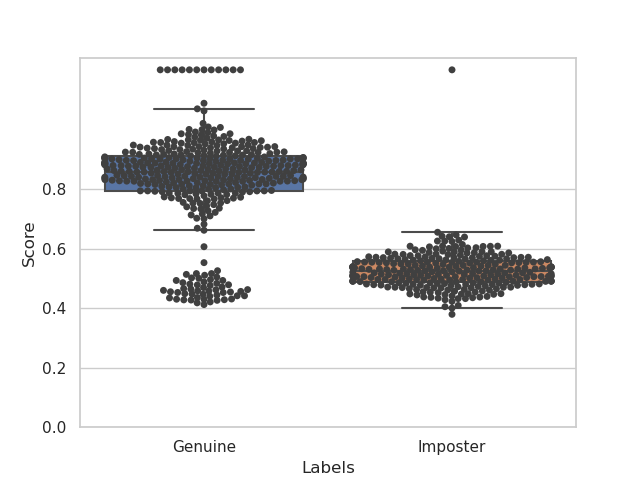
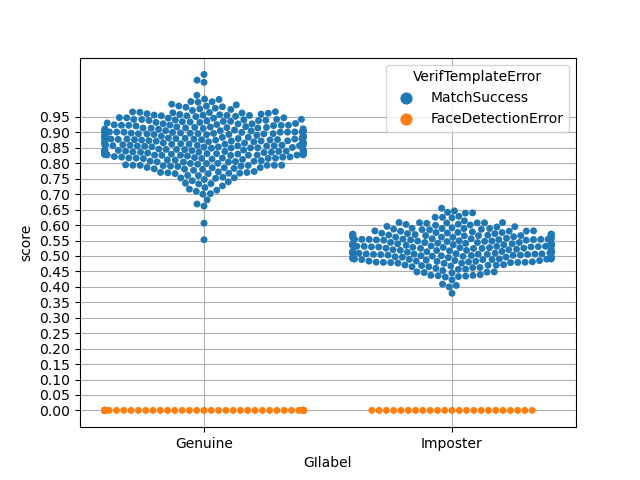
finish add pnas dataset and change plot FD fail

Changed region(s): [[0.0312, 0.0938, 0.9062, 0.9688], [0.4688, 0.9375, 0.5625, 1.0]]

diff --git a/plot.py b/plot.py
@@ -20,8 +20,8 @@ def loadDataframe(fileDirectory):
     dfVerif = pd.read_csv(verifdir, delimiter= '\s+', header = None, names=["id", "path", "dataset"]) 
     dfMatch = pd.read_csv(matchdir, delimiter= '\s+', header = None, names=["enroll", "verif"])
     # Assign headers
-    dfEnroll['path'] = dfEnroll['path'].str[3:]
-    dfVerif['path'] = dfVerif['path'].str[3:]
+    dfEnroll['path'] = dfEnroll['path'].str.strip("../")
+    dfVerif['path'] = dfVerif['path'].str.strip("../")
     dfMatch['enroll'] = dfMatch['enroll'].str[:-9]
     dfMatch['verif'] = dfMatch['verif'].str[:-9]
     # Get UUID
@@ -37,14 +37,17 @@ def loadDataframe(fileDirectory):
     dfEnroll['features'] = np.nan
     dfVerif['features'] = np.nan
     dfMatch['score'] = np.nan
+    dfMatch['GIlabel'] = np.nan
     dfEnroll['features'] = dfEnroll['features'].astype('object')
     dfVerif['features'] = dfVerif['features'].astype('object')
     dfMatch['score'] = dfMatch['score'].astype('object')
+    dfMatch['GIlabel'] = dfMatch['GIlabel'].astype('object')
     # Unable to detect a face in the image
     dfEnroll['FaceDetectionError'] = False
     dfVerif['FaceDetectionError'] = False
     # Either or both of the input templates were result of failed feature extraction
-    dfMatch['VerifTemplateError'] = False 
+    dfMatch['VerifTemplateError'] = np.nan 
+    dfMatch['VerifTemplateError'] = dfMatch['VerifTemplateError'].astype('object')
     print(dfEnroll.head())
     print(dfVerif.head())
     print(dfMatch.head())
@@ -121,7 +124,7 @@ def compareSimilarity(featureFoo, featureBar):
     similarity = 1.00 - ((np.linalg.norm(featureFoo-featureBar))*0.50 - 0.20)
     return similarity
 
-def plotGIBoxScatter(matchScore, GIlabel):
+def plotGIBoxScatter(dfMatch):
     #init variables
     genuineScore = []
     imposterScore = []
@@ -134,34 +137,19 @@ def plotGIBoxScatter(matchScore, GIlabel):
     Known = 0
     Unknown = 0
     #label for same id(Genuine) and different id(Imposter)
-    #pnas dataset
-    for i, score in enumerate(matchScore):
-        if GIlabel[i] == True:  #Genuine
-            genuineScore.append(score)
-        else:           #Imposter
-            imposterScore.append(score)
-    #plot box and scatter pairs
-    sns.set(style="whitegrid")
-    dfG = pd.DataFrame(genuineScore,columns=['Score'])
-    dfG['Labels'] = 'Genuine'
-    dfI = pd.DataFrame(imposterScore,columns=['Score'])
-    dfI['Labels'] = 'Imposter'
-    frames = [dfG, dfI]
-    result = pd.concat(frames)
-    result.Score = pd.to_numeric(result.Score, errors='coerce')
-    print(result)
-    ax = sns.boxplot(x="Labels", y="Score", data=result, showfliers = False)
-    ax = sns.swarmplot(x="Labels", y="Score", data=result, color=".25")
-    plt.yticks(np.arange(0, 1, 0.2))
+    # ax = sns.boxplot(x="GIlabel", y="score", data=dfMatch, showfliers = False)
+    ax = sns.swarmplot(x="GIlabel", y="score", data=dfMatch, hue="VerifTemplateError")
+    plt.yticks(np.arange(0, 1, 0.05))
+    plt.grid()
     plt.savefig('GIboxPlot.png')
     plt.show()
     #print box plot status
-    dfG.Score = pd.to_numeric(dfG.Score, errors='coerce')
-    statsG = boxplot_stats(dfG['Score'])
+    # dfG.Score = pd.to_numeric(dfG.Score, errors='coerce')
+    statsG = boxplot_stats(dfMatch['score'])
     print('Genuine: ',statsG,'\n')
     print(statsG[0]['whislo'])
-    dfI.Score = pd.to_numeric(dfI.Score, errors='coerce')
-    statsI = boxplot_stats(dfI['Score'])
+    # dfI.Score = pd.to_numeric(dfI.Score, errors='coerce')
+    statsI = boxplot_stats(dfMatch['score'])
     print('Imposter: ',statsI)
     return statsG, statsI
 
@@ -171,8 +159,14 @@ sp = dlib.shape_predictor("geo_vision_5_face_landmarks.dat") #dlib LM model
 g2 = load_graph("09-02_02-45.pb") #tensorflow FR resnet_v1_50 model
 
 #load image list
-dfEnroll, dfVerif, dfMatch = loadDataframe('input')
+dfEnroll, dfVerif, dfMatch = loadDataframe('mugshotInput')
+# dfEnroll, dfVerif, dfMatch = loadDataframe('pnasInput')
 # win = dlib.image_window()
+
+#for debug use
+# dfEnroll = dfEnroll[:10]
+# dfVerif = dfVerif[:10]
+# dfMatch = dfMatch[:10]
 
 #get face detected aligned crops
 enrollCrops = []
@@ -223,9 +217,6 @@ for i in range(len(dfVerif)):
 #     np.savetxt(f, np.row_stack(embedding), fmt='%f')
 
 #match pairs similarity score
-similarityScores = []
-GIlabel = []
-# print(len(embedding))
 for i in range(len(dfMatch)):
     enrollId = dfMatch.at[i, 'enroll']
     verifId = dfMatch.at[i, 'verif']
@@ -235,12 +226,12 @@ for i in range(len(dfMatch)):
     featureVerif = filterVerif['features'].item()
     if dfEnroll.at[i, 'FaceDetectionError'] == True or dfVerif.at[i, 'FaceDetectionError'] == True:
         dfMatch.at[i, 'score'] = 0
+        dfMatch.at[i, 'VerifTemplateError'] = 'FaceDetectionError'
     else:
         dfMatch.at[i,'score'] = compareSimilarity(featureEnroll,featureVerif)
-        if dfEnroll.at[i, 'UUID'] == dfVerif.at[i, 'UUID']: #G
-            GIlabel.append(True)
-        else:                                               #I
-            GIlabel.append(False)
-        similarityScores.append(dfMatch.at[i, 'score'])
-print(similarityScores)
-plotGIBoxScatter(similarityScores, GIlabel)
+        dfMatch.at[i, 'VerifTemplateError'] = 'MatchSuccess'
+    if dfEnroll.at[i, 'UUID'] == dfVerif.at[i, 'UUID']:
+        dfMatch.at[i, 'GIlabel'] = 'Genuine'
+    else:
+        dfMatch.at[i, 'GIlabel'] = 'Imposter'
+plotGIBoxScatter(dfMatch)

diff --git a/README.md b/README.md
@@ -18,8 +18,12 @@ python plot.py
 - [X] extract and save features to pnas.txt
 - [X] visualize G-I Similarity box scatter chart
 - [X] add MUGSHOT dataset
-- [ ] cleanup code
+- [X] add pnas dataset
+- [X] cleanup code (use dataframe instead of list)
 
 ## G-I Similarity box scatter chart
+* MUGSHOT:
 ![Alt text](mugshotGIboxPlot.png?raw=true "Title")
+* pnas:
+![Alt text](pnasGIboxPlot.png?raw=true "Title")
 
